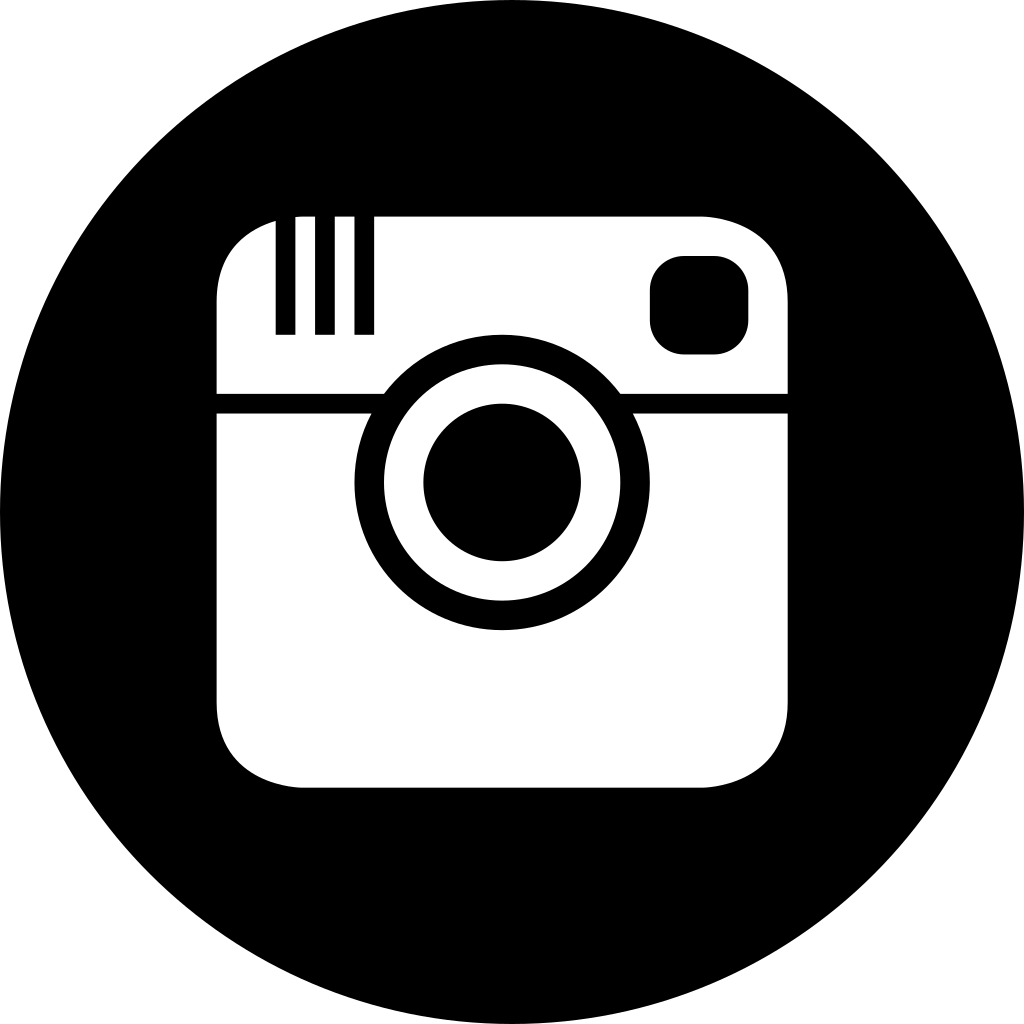
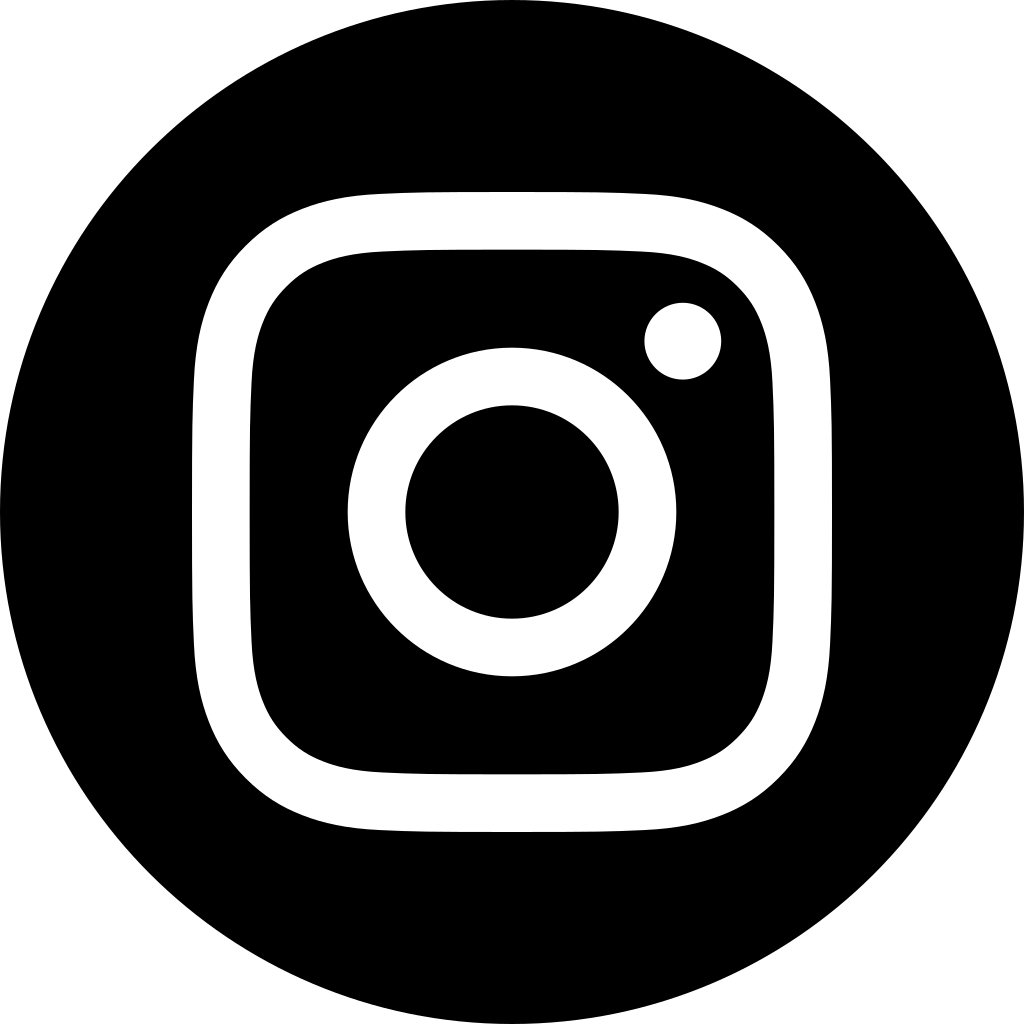
Updates for 1st attempt submission
Added additional changes throughout to ensure resume meets criteria.

Changed region(s): [[0.1875, 0.1875, 0.8125, 0.8125]]

diff --git a/index.html b/index.html
@@ -14,6 +14,7 @@
 </head>
 
 <body>
+
     <header>
         <Nav id="backToTop">
             <ul id="Menu">
@@ -29,9 +30,7 @@
         <p id="slogan">Art Direction & Design</p>
     </header>
 
-
-
-    <section id="main">
+    <main id="main">
 
         <div id="profile">
             <img src="images/profilePic.jpg" alt="Photograph of Staci">
@@ -44,6 +43,17 @@
                 very unique and versatile skill set which I am constantly building on to and improving.
                 When not working on my career, I enjoy created DIY/craft projects, spending time with friends and family
                 and browsing through social media to catch up on the feeds of my favourite local influencers.</p>
+
+            <h2>Interests</h2>
+            <ul>
+                <li>Fashion</li>
+                <li>Visual Design</li>
+                <li>Health & Fitness</li>
+                <li>Adventure Activities</li>
+                <li>Spending Time with Family & Friends</li>
+                <li>Arts & Crafts</li>
+                <li>Social Media Marketing</li>
+            </ul>
         </div>
 
         <article>
@@ -103,24 +113,66 @@
 
             <div class="info">
                 <h2 id="skills">Skills</h2>
-                <h3>Technical: </h3>
-                <p> Adobe Suite (photoshop/illustrator/indesign/xd) - Corel Draw - Microsoft
-                    Office & Outlook - Canva - Figma - Garment Construction & Patternmaking -
-                    Makeup Application - Excellent research & analysis ability
-                </p>
+                <div class="skillsSection">
+                    <div>
+                        <h3>Technical: </h3>
+                        <ul>
+                            <li>Html</li>
+                            <li>CSS</li>
+                            <li>Adobe Photshop</li>
+                            <li>Adobe Illustrator</li>
+                            <li>Adobe Indesign</li>
+                            <li>Adobe XD</li>
+                            <li>Figma</li>
+                            <li>Corel Draw</li>
+                            <li>Microsoft Office</li>
+                            <li>Garment Construction</li>
+                            <li>Pattern Making</li>
+                            <li>Makeup Application</li>
+                        </ul>
+                    </div>
 
-                <h3>Soft:</h3>
-                <p>Creative Thinker - Problem Solver - Works well under Pressure - Takes Initiative
-                    - Takes Direction well - Great Visual Eye/Understanding - Versatile & Adaptable
-                </p>
+                    <div>
+                        <h3>Soft:</h3>
+                        <ul>
+                            <li>Creative & Conceptual Thinker</li>
+                            <li>Problem Solver</li>
+                            <li>Works Well Under Pressure</li>
+                            <li>Takes Initiative</li>
+                            <li>Gives & Takes Direction Well</li>
+                            <li>Great Visual Eye & Visual Understanding</li>
+                            <li>Versatile & Adaptable</li>
+                        </ul>
+                    </div>
+                </div>
             </div>
+
         </article>
-    </section>
+    </main>
 
     <footer>
-        <h3 id="contact">Contact Details:</h3>
-        <p>Cel: 000 000 0000 Email: stacivanrooy@gmail.com</p>
-        <a href="#backToTop">Back to top</a>
+        <h2 id="contact">Contact Details:</h2>
+
+        <a href="https://www.behance.net/stacivanrooy" target="_blank">
+            <img src="images/behanceIcon.png" alt="Behance Portfolio" class="contactIcon">
+        </a>
+
+        <a href="https://www.linkedin.com/in/staci-van-rooy/" target="_blank">
+            <img src="images/linkedinIcon.png" alt="LinkedIn Profile" class="contactIcon">
+        </a>
+
+        <a href="https://www.instagram.com/staci_vr/" target="_blank">
+            <img src="images/instagramIcon.png" alt="Instagram Profile" class="contactIcon">
+        </a>
+
+        <a href="mailto:stacivanrooy@gmail.com" target="_blank">
+            <img src="images/emailIcon.png" alt="Email Me" class="contactIcon">
+        </a>
+
+        <p>
+            <a href="#backToTop" id="bottomLink">Back to Top</a>
+        </p>
+
     </footer>
 
 </body>

diff --git a/css/stylesheet.css b/css/stylesheet.css
@@ -6,13 +6,6 @@ body {
   margin: 0;
   display: flex;
   flex-direction: column;
-  align-items: flex-start;
-}
-
-
-footer {
-  background-color: #A65362;
-  text-align: center;
 }
 
 h1 {
@@ -37,11 +30,10 @@ h2 {
   color: #A65362;
 }
 
-
 img {
   border-radius: 50%;
-  width: 20%;
-  height: 45%;
+  width: 250px;
+  height: 300px;
   border: 3px solid #F2E0D0;
 }
 
@@ -51,7 +43,6 @@ header {
   padding: 0%;
   text-align: center;
 }
-
 
 #Menu {
   background-color: #A65362;
@@ -74,8 +65,48 @@ header {
   background-color: #BF8F84;
   margin: 0%;
   padding: 5%;
+  flex-basis: 1rem;
+  flex-grow: 1;
 }
 
 .info {
   padding: 0 5% 0 5%;
+  flex-basis: 2rem;
+}
+
+#main {
+  display: flex;
+  flex-direction: row;
+  overflow: unset;
+}
+
+.skillsSection {
+  display: flex;
+  flex-direction: row;
+  justify-content: space-around;
+  padding-bottom: 5%;
+}
+
+#contact {
+  color: #F2E0D0;
+  text-align: center;
+}
+
+footer {
+  background-color: #A65362;
+  text-align: center;
+
+}
+
+.contactIcon {
+  width: 3rem;
+  height: 3rem;
+  border: none;
+  padding: 2%;
+}
+
+#bottomLink {
+  color: #F2E0D0;
+  font-size: medium;
+  text-decoration: none;
 }
